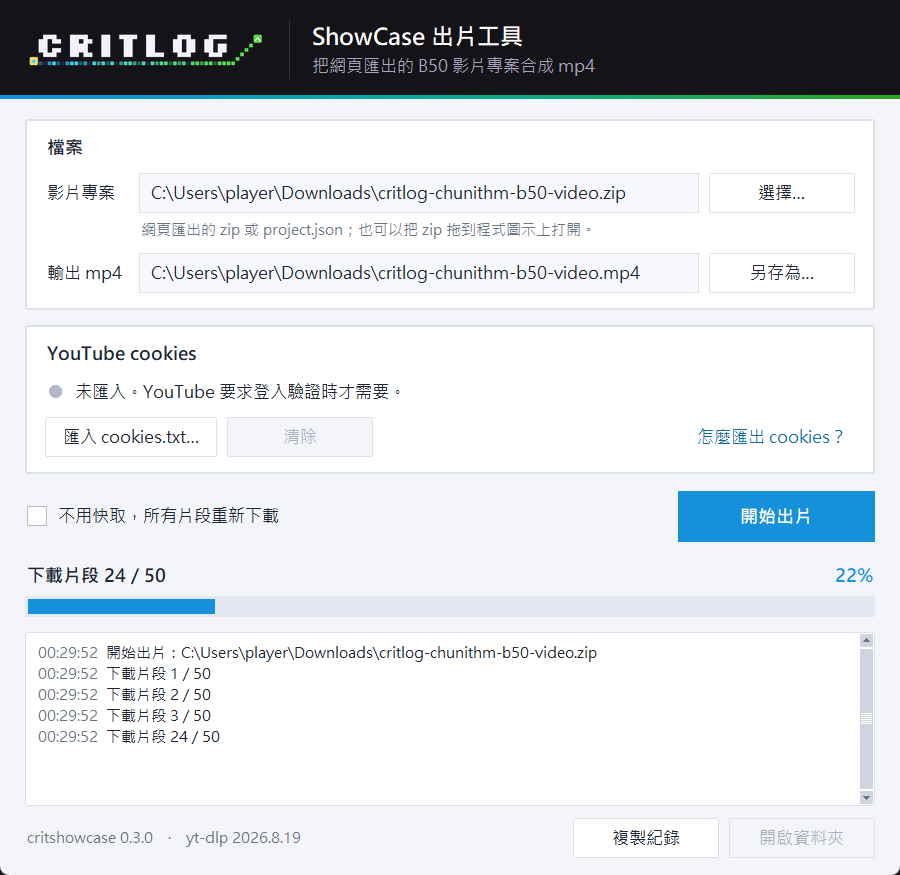
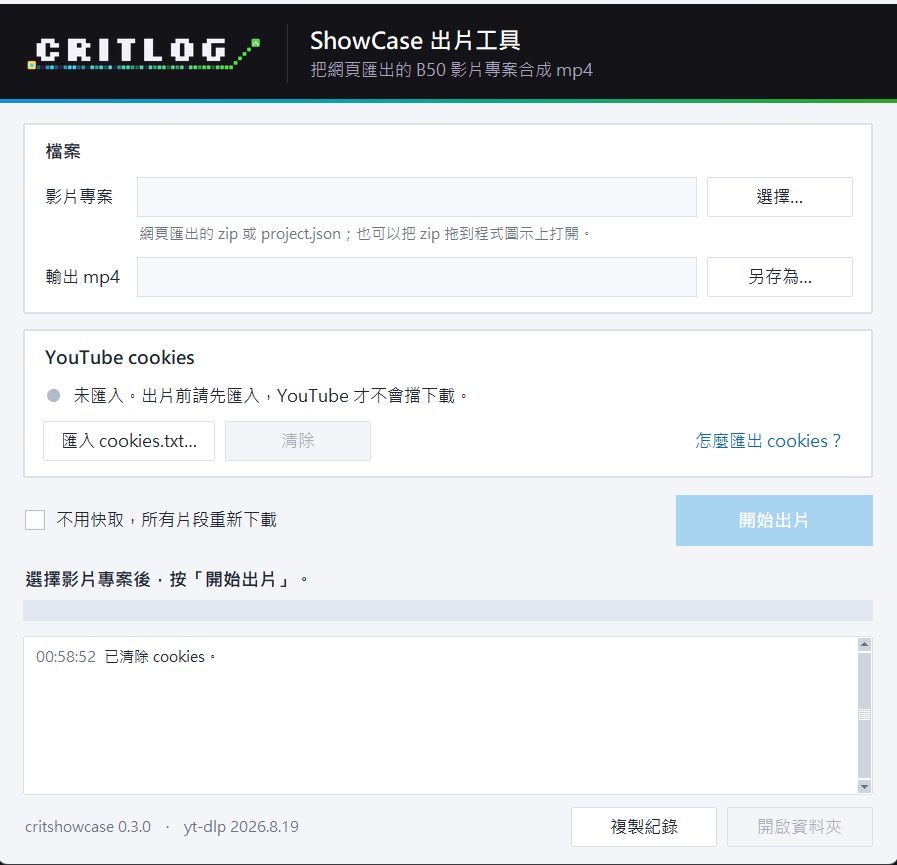
Ask for cookies before rendering instead of after YouTube blocks
Downloads without cookies get blocked too often, so the GUI, tutorial and
README now tell people to import cookies first. The README screenshot shows
the new cookie status line.

diff --git a/src/critshowcase/gui/app.py b/src/critshowcase/gui/app.py
@@ -185,7 +185,7 @@ class App:
         if imported:
             self.cookie_status.set(f"已匯入（{imported.imported_at:%Y-%m-%d %H:%M}），出片時會使用。")
         else:
-            self.cookie_status.set("未匯入。YouTube 要求登入驗證時才需要。")
+            self.cookie_status.set("未匯入。出片前請先匯入，YouTube 才不會擋下載。")
         self.cookie_dot.configure(style="Ok.TLabel" if imported else "Off.TLabel")
         self.start.configure(state="normal" if not busy and self.source.get() else "disabled")
         self.open_folder.configure(state="normal" if not busy and self.last_output else "disabled")
@@ -278,8 +278,8 @@ class App:
                 f"詳細原因：{error}"
             )
         return (
-            "YouTube 要求登入驗證，這台電腦目前無法下載。\n"
-            "請用瀏覽器擴充功能匯出 YouTube 的 cookies.txt，按「匯入 cookies.txt…」匯入後再出片一次。"
+            "YouTube 要求登入驗證，沒有匯入 cookies 無法下載。\n"
+            "請先用瀏覽器擴充功能匯出 YouTube 的 cookies.txt，按「匯入 cookies.txt…」匯入後再出片一次。"
         )
 
     # ---- 出片 ----

diff --git a/src/critshowcase/gui/tutorial.py b/src/critshowcase/gui/tutorial.py
@@ -145,7 +145,7 @@ class TutorialWindow:
         text.tag_bind("link", "<Enter>", lambda event: text.configure(cursor="hand2"))
         text.tag_bind("link", "<Leave>", lambda event: text.configure(cursor="arrow"))
 
-        text.insert("end", "YouTube 要求登入驗證時，用瀏覽器擴充功能匯出 cookies.txt，再匯入 CRITShowCase。\n", "heading")
+        text.insert("end", "出片前請先用瀏覽器擴充功能匯出 YouTube 的 cookies.txt，再匯入 CRITShowCase。\n", "heading")
         text.insert("end", COMMON["why"] + "\n\n", "note")
         if browser.warning:
             text.insert("end", "⚠ " + browser.warning + "\n\n", "warning")

diff --git a/README.md b/README.md
@@ -44,6 +44,18 @@ YouTube 常常改版。很多片段突然下載失敗時，先下載最新版：
 
 ## 使用方式
 
+### 第一次使用：匯入 YouTube cookies
+
+YouTube 常常要求證明你不是機器人，沒有 cookies 時下載很容易被擋。出片前請先匯入你的 YouTube cookies：
+
+1. 按「怎麼匯出 cookies？」，照著教學用瀏覽器擴充功能匯出 `cookies.txt`。教學會請你在無痕視窗登入，因為從一般視窗匯出的 cookies 很快就會失效。
+2. 按「匯入 cookies.txt…」選匯出的檔案。之後出片都會自動使用，不必每次匯入。
+
+- cookies 等於你的 YouTube 登入狀態，不要傳給別人。匯入的是一份複本，原本的檔案可以刪掉。
+- 建議用分身帳號：YouTube 可能會停用被拿來下載影片的帳號。
+
+### 出片
+
 1. 按「選擇…」選網頁匯出的影片專案 zip。也可以直接把 zip 拖到程式圖示上（macOS 可以拖到 Dock 上的圖示）。
 2. 成品預設放在 zip 旁邊，按「另存為…」可以換位置。
 3. 按「開始出片」。進度條會走過下載片段、合成段落、輸出 mp4 三個階段；最後輸出 mp4 只有一步，沒有百分比，狀態文字會一直動。
@@ -55,14 +67,8 @@ YouTube 常常改版。很多片段突然下載失敗時，先下載最新版：
 
 ### 出現「YouTube 要求登入驗證」
 
-YouTube 有時會要求證明你不是機器人，這時需要匯入你的 YouTube cookies：
-
-1. 按「怎麼匯出 cookies？」，照著教學用瀏覽器擴充功能匯出 `cookies.txt`。教學會請你在無痕視窗登入，因為從一般視窗匯出的 cookies 很快就會失效。
-2. 按「匯入 cookies.txt…」選匯出的檔案。之後出片都會自動使用。
-
-- cookies 等於你的 YouTube 登入狀態，不要傳給別人。匯入的是一份複本，原本的檔案可以刪掉。
-- 建議用分身帳號：YouTube 可能會停用被拿來下載影片的帳號。
-- 之後又出現同樣的訊息，代表 cookies 失效了，照同樣步驟重新匯出、匯入即可。
+- 還沒匯入 cookies：照[第一次使用](#第一次使用匯入-youtube-cookies)的步驟匯入後再出片一次。
+- 已經匯入過：cookies 失效了，照同樣步驟重新匯出、匯入即可。
 
 ### 有些片段下載失敗
 
@@ -75,7 +81,7 @@ YouTube 有時會要求證明你不是機器人，這時需要匯入你的 YouTu
 到 [Issues](https://github.com/ryrr6466/CRITShowCase/issues) 開一個新問題，附上：
 
 - 按「複製紀錄」複製的整段紀錄
-- 視窗左下角的版本（例如 `critshowcase 0.3.0 · yt-dlp 2026.8.19`）
+- 視窗左下角的版本（例如 `critshowcase 1.0.0 · yt-dlp 2026.8.19`）
 - 作業系統
 
 請不要附上 cookies.txt 或含有個人資訊的檔案。
